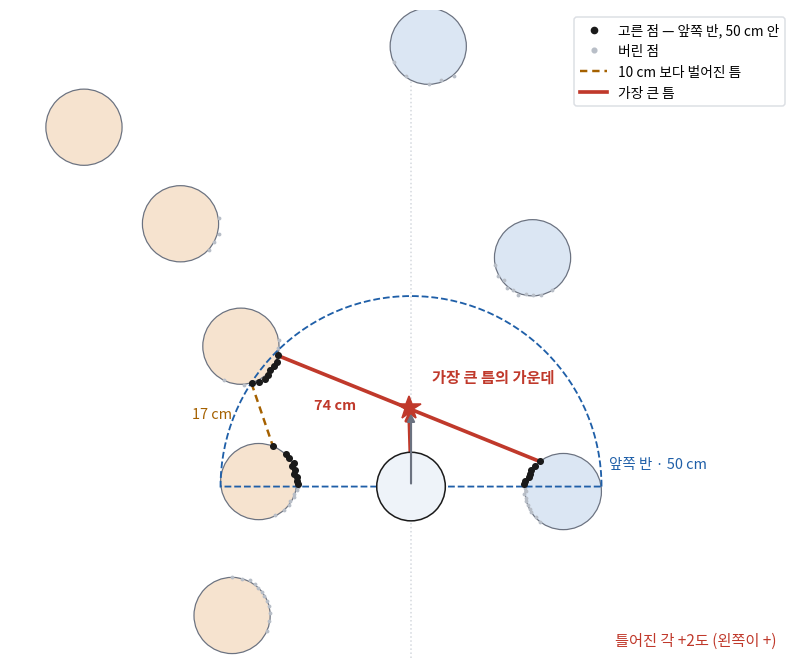
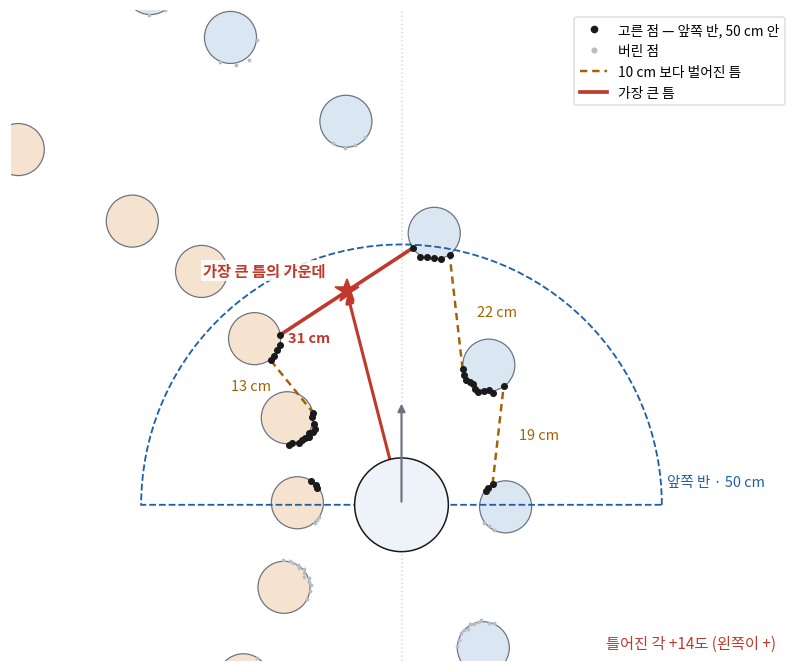
로봇공학 26회 예시를 기말 프로젝트 트랙(S자 · 간격 20cm · 폭 40cm)에 맞춤
dev 에서 배포했다.

  M	robotics/assets/img/26_gap.png
  M	robotics/robotics_26.html

diff --git a/robotics/robotics_26.html b/robotics/robotics_26.html
@@ -87,14 +87,14 @@
        →  가장 큰 틈  이웃한 두 점 사이가 가장 크게 벌어진 곳의 가운데      (③절)
        →  /cmd_vel    그 가운데 쪽으로 돈다                               (④절)</code></pre>
   <p>
-    아래 그림이 그 과정이다. 콘(지름 20cm)을 40cm 간격으로 세우고 두 줄 사이를 80cm로 둔 굽은 트랙에서, 로봇이 왼쪽으로 굽는 길에 들어선 자리다.
+    아래 그림이 그 과정이다. 기말 프로젝트의 트랙처럼 콘을 20cm 간격으로 세우고 두 줄 사이를 40cm로 둔 S자 트랙에서, 로봇이 첫 번째 왼쪽 굽이에 들어선 자리다. 콘의 지름은 10cm로 잡았다.
     콘의 자리를 정해 두고 그 자리의 라이다가 볼 점을 계산해서 그렸다. <strong>위쪽이 로봇의 앞(x)</strong>, 왼쪽이 로봇의 왼쪽(y)이다. 주황 콘이 왼쪽 줄, 파란 콘이 오른쪽 줄이다.
   </p>
   <figure>
     <img src="assets/img/26_gap.png" width="620"
-         alt="로봇 둘레에 주황 콘(왼쪽 줄)과 파란 콘(오른쪽 줄)이 있고, 로봇 앞쪽에 반지름 50cm의 파란 점선 반원이 있다. 반원 안의 점만 검은 점으로 남았다. 왼쪽 줄 두 콘 사이에 17cm짜리 주황 점선 틈이, 오른쪽 콘과 왼쪽 앞 콘 사이에 74cm짜리 빨간 실선 틈이 있고, 빨간 틈의 가운데에 별이 있으며 로봇에서 별로 화살표가 나 있다. 틀어진 각 +2도">
-    <figcaption>점 116개 가운데 앞쪽 반·50cm 안의 25개만 남겼다(검은 점). 이웃한 두 점이 10cm보다 벌어진 틈은 둘 — 왼쪽 줄 콘 사이의 17cm와 두 줄 사이의 74cm다.
-      더 큰 74cm 틈의 가운데(★)가 목표점이고, 로봇은 그쪽으로 2도쯤 돌면 된다.</figcaption>
+         alt="왼쪽으로 굽는 길에서 로봇 둘레에 주황 콘(왼쪽 줄)과 파란 콘(오른쪽 줄)이 있고, 로봇 앞쪽에 반지름 50cm의 파란 점선 반원이 있다. 반원 안의 점만 검은 점으로 남았다. 같은 줄 콘 사이에 13·19·22cm짜리 주황 점선 틈이, 왼쪽 콘과 오른쪽 줄의 앞 콘 사이에 31cm짜리 빨간 실선 틈이 있고, 빨간 틈의 가운데에 별이 있으며 로봇에서 별로 화살표가 나 있다. 틀어진 각 +14도">
+    <figcaption>점 109개 가운데 앞쪽 반·50cm 안의 40개만 남겼다(검은 점). 이웃한 두 점이 10cm보다 벌어진 틈은 넷 — 같은 줄 콘 사이의 13·19·22cm와 두 줄 사이의 31cm다.
+      가장 큰 31cm 틈의 가운데(★)가 목표점이고, 로봇은 그쪽으로 14도쯤 돌면 된다.</figcaption>
   </figure>
 
 
@@ -110,7 +110,7 @@
     <strong>앞쪽 반</strong>은 로봇의 왼쪽 옆(+90도)부터 정면을 거쳐 오른쪽 옆(−90도)까지다. 25회의 좌표로는 <strong>x &gt; 0</strong>인 점이다. 이미 지나온 콘은 뒤에 있으므로 여기서 빠진다.
   </p>
   <p>
-    <strong>50cm</strong>는 「지금 바로 옆과 앞에 있는 콘만 본다」는 뜻이다. 트랙 폭이 80cm면 길 가운데의 로봇에서 양옆 콘까지가 40cm쯤이므로, 50cm 안에는 <strong>양쪽 줄의 가까운 콘</strong>이 들어온다.
+    <strong>50cm</strong>는 「지금 바로 옆과 앞에 있는 콘만 본다」는 뜻이다. 길 폭이 40cm면 길 가운데의 로봇에서 양옆 콘까지가 20cm쯤이므로, 50cm 안에는 <strong>양쪽 줄의 가까운 콘</strong>이 두세 개씩 들어온다.
     멀리까지 보면 굽은 길 너머의 콘이나 트랙 밖의 가구가 끼어든다. 가까운 것만 보면 그런 일이 줄어든다.
   </p>
   <p>
@@ -175,26 +175,30 @@
   <div class="tablewrap">
   <table>
     <tr><th>틈이 보는 것</th><th>양 끝의 두 점</th><th>그림에서</th></tr>
-    <tr><td><strong>같은 줄의 콘 사이</strong></td><td>한 줄에서 이웃한 두 콘</td><td>왼쪽 줄 두 콘 사이의 17cm</td></tr>
-    <tr><td><strong>앞으로 열린 길</strong></td><td>오른쪽 줄의 콘과 왼쪽 줄의 콘</td><td>두 줄 사이의 74cm</td></tr>
+    <tr><td><strong>같은 줄의 콘 사이</strong></td><td>한 줄에서 이웃한 두 콘</td><td>13cm · 19cm · 22cm</td></tr>
+    <tr><td><strong>앞으로 열린 길</strong></td><td>오른쪽 줄의 콘과 왼쪽 줄의 콘</td><td>왼쪽 콘과 오른쪽 줄의 앞 콘 사이의 31cm</td></tr>
   </table>
   </div>
 
   <h3 id="gap-widest">3-2 가장 큰 틈이 길인 까닭</h3>
   <p>
-    두 틈 가운데 어느 것이 길인지 무엇으로 가를까? <strong>폭</strong>으로 가른다. 콘이 일정한 간격으로 서 있다면, 같은 줄의 콘 사이 틈은 <strong>콘 간격에서 콘의 지름을 뺀 것</strong>보다 넓어지기 어렵다.
-    그림의 트랙이면 40 − 20 = 20cm쯤이다. 로봇이 지나갈 길은 그보다 넓어야 하므로, 두 줄 사이의 틈은 그보다 넓다.
+    틈이 여럿일 때 어느 것이 길인지 무엇으로 가를까? <strong>폭</strong>으로 가른다. 콘이 일정한 간격으로 서 있다면, 같은 줄의 콘 사이 틈은 <strong>콘 간격에서 콘의 지름을 뺀 것</strong>보다 넓어지기 어렵다.
+    그림의 트랙이면 20 − 10 = 10cm쯤이다. 두 줄 사이의 틈은 길 폭에서 콘의 지름을 뺀 30cm쯤이므로 훨씬 넓다.
   </p>
-<pre><code>같은 줄의 콘 사이     콘 간격 0.40 m − 콘 지름 0.20 m  ≈ 0.20 m   (그림에서 0.17 m)
-두 줄 사이            트랙 폭 0.80 m 쯤                            (그림에서 0.74 m)
+<pre><code>같은 줄의 콘 사이     콘 간격 0.20 m − 콘 지름 0.10 m  ≈ 0.10 m   (그림에서 0.13 · 0.19 · 0.22 m)
+두 줄 사이            길 폭 0.40 m − 콘 지름 0.10 m    ≈ 0.30 m   (그림에서 0.31 m)
 → 가장 큰 틈 = 두 줄 사이 = 갈 길</code></pre>
   <p>
-    그래서 규칙은 한 줄이다 — <strong>가장 큰 틈의 가운데로 간다.</strong> 왼쪽 줄인지 오른쪽 줄인지, 콘이 몇 개인지 따질 필요가 없다.
-    틈의 양 끝 두 점의 평균이 틈의 가운데다. 그림에서는 오른쪽 콘의 점 (0.066, −0.337)과 왼쪽 콘의 점 (0.344, 0.350)의 가운데인 <strong>(0.205, 0.006)</strong>이다.
+    그림에서 같은 줄의 틈이 계산보다 넓은 것은 두 가지 때문이다. 하나는 <strong>굽은 길의 바깥 줄</strong>(여기서는 오른쪽 줄)이다. 길 가운데를 따라 20cm마다 콘을 세웠으므로 반지름이 큰 바깥 줄은 콘 사이가 벌어졌다(19 · 22cm).
+    다른 하나는 라이다가 콘의 <strong>앞쪽 면</strong>만 본다는 것이다. 틈의 양 끝 두 점이 두 콘이 서로 가장 가까운 자리가 아니어서, 잰 틈이 실제 사이보다 조금 넓어진다.
+  </p>
+  <p>
+    어느 쪽이든 두 줄 사이가 더 넓다. 그래서 규칙은 한 줄이다 — <strong>가장 큰 틈의 가운데로 간다.</strong> 왼쪽 줄인지 오른쪽 줄인지, 콘이 몇 개인지 따질 필요가 없다.
+    틈의 양 끝 두 점의 평균이 틈의 가운데다. 그림에서는 오른쪽 줄 앞 콘의 점 (0.494, −0.022)와 왼쪽 콘의 점 (0.326, 0.233)의 가운데인 <strong>(0.410, 0.106)</strong>이다.
   </p>
   <div class="interp">
-    <strong>해석:</strong> 이 규칙이 통하려면 <strong>같은 줄의 콘 사이 틈 &lt; 두 줄 사이 틈</strong>이어야 한다. 콘 간격이 트랙 폭과 비슷할 만큼 벌어져 있으면 콘 사이의 틈이 길보다 커 보일 수 있다.
-    트랙을 세울 때 이 조건을 같이 생각해 두면 좋다.
+    <strong>해석:</strong> 이 규칙이 통하려면 <strong>같은 줄의 콘 사이 틈 &lt; 두 줄 사이 틈</strong>이어야 한다. 그림의 굽은 길에서는 22cm와 31cm로 차이가 크지 않았다. 바깥 줄의 콘 사이가 더 벌어지면 콘 사이의 틈이 길보다 커 보일 수 있다.
+    연습 트랙을 세울 때 굽은 자리의 바깥 줄 간격을 일부러 넓혀 보면 이 경계를 직접 볼 수 있다.
   </div>
 
   <h3 id="gap-none">3-3 틈이 없을 때</h3>
@@ -254,9 +258,9 @@
     많이 틀어졌으면 많이 돌리고, 조금 틀어졌으면 조금 돌린다. 이렇게 <strong>벗어난 양(오차)에 비례해서 고치는 것</strong>을 <strong>비례 제어(proportional control, P 제어)</strong>라고 하고, 곱하는 숫자 <code>kp</code>를 <strong>비례 이득(gain)</strong>이라고 한다.
     부호는 ROS 좌표 규약이 맞춰 준다 — 목표점이 왼쪽이면 y가 +, 틀어진 각이 +, <code>angular.z</code>가 +, 로봇은 왼쪽으로 돈다.
   </p>
-<pre><code>목표점 = (0.205, 0.006)          (그림의 ★)
-틀어진 각 = atan2(0.006, 0.205) = 0.029 rad = 1.7도
-kp = 1.0 이면  회전 속도 = 1.0 × 0.029 = 0.03 rad/s     — 로봇이 이미 길 쪽을 보고 있어서 거의 곧장 간다</code></pre>
+<pre><code>목표점 = (0.410, 0.106)          (그림의 ★)
+틀어진 각 = atan2(0.106, 0.410) = 0.252 rad = 14.4도
+kp = 1.0 이면  회전 속도 = 1.0 × 0.252 = 0.25 rad/s     — 왼쪽으로 돈다</code></pre>
   <p>
     목표점은 언제나 앞쪽 반에 있으므로 틀어진 각은 −90도 ~ +90도(−1.57 ~ +1.57 rad)를 넘지 않는다. <code>kp</code>가 1.0이면 회전 속도도 ±1.57 rad/s 안이다.
     <code>kp</code>를 크게 올릴 때는 이 곱이 로봇이 낼 수 있는 회전 속도를 넘지 않는지 같이 보아 둔다.
@@ -419,26 +423,26 @@ int main(int argc, char ** argv)
   <h2 id="tune">⑤ 실험하며 맞출 것 <span class="badge b-red">🔴 사람이 맞춘다</span></h2>
 
   <p>
-    이 코드가 여러분의 트랙에서 바로 잘 달릴까? 그렇지 않을 가능성이 크다. 콘의 크기, 간격, 트랙 폭, 바닥, 로봇의 속도가 다 다르기 때문이다. 손댈 자리는 숫자 네 개와 규칙이다.
+    이 코드가 여러분의 트랙에서 바로 잘 달릴까? 그렇지 않을 가능성이 크다. 콘의 크기, 간격, 길 폭, 바닥, 로봇의 속도가 다 다르기 때문이다. 손댈 자리는 숫자 네 개와 규칙이다.
   </p>
   <div class="tablewrap">
   <table>
     <tr><th>숫자</th><th>처음 값</th><th>무엇에 맞추나</th><th>틀렸을 때 보이는 것</th></tr>
-    <tr><td><code>look_distance_</code></td><td>0.50 m</td><td>트랙 폭과 콘 간격 (아래)</td><td>짧으면 콘이 안 보이는 순간이 생겨 곧장 가 버리고, 길면 굽은 길 너머의 콘이나 트랙 밖 물체가 끼어든다</td></tr>
-    <tr><td><code>min_gap_</code></td><td>0.10 m</td><td>한 콘 위의 점 간격보다 넓게, 같은 줄의 콘 사이 틈보다 좁게</td><td>너무 작으면 콘 하나에 틈이 생기고, 너무 크면 틈을 못 찾는다</td></tr>
-    <tr><td><code>speed_</code></td><td>0.05 m/s</td><td>스캔 한 장(0.1초) 사이에 가는 거리</td><td>빠르면 굽은 길에서 돌기 전에 콘에 닿는다</td></tr>
+    <tr><td><code>look_distance_</code></td><td>0.50 m</td><td>길 폭과 콘 간격 (아래)</td><td>짧으면 콘이 안 보이는 순간이 생겨 곧장 가 버리고, 길면 굽은 길 너머의 콘이나 트랙 밖 물체가 끼어든다</td></tr>
+    <tr><td><code>min_gap_</code></td><td>0.10 m</td><td>한 콘 위의 점 간격(1.5cm)보다 넓게</td><td>너무 작으면 콘 하나에 틈이 생기고, 30cm 가까이 크면 길도 틈으로 못 찾는다. 같은 줄의 콘 사이(10cm 안팎)가 틈으로 잡히든 안 잡히든 가장 큰 틈은 대체로 길이다</td></tr>
+    <tr><td><code>speed_</code></td><td>0.05 m/s</td><td>스캔 한 장(0.1초) 사이에 가는 거리</td><td>빠르면 굽은 길에서 돌기 전에 콘에 닿는다. 길 폭 40cm에서 로봇 폭이 18cm쯤이라 한쪽 여유는 6cm쯤이다(콘 지름 10cm일 때)</td></tr>
     <tr><td><code>kp_</code></td><td>1.0</td><td>로봇과 트랙의 굽은 정도</td><td>작으면 굽은 길을 못 따라가고, 크면 좌우로 흔들릴 수 있다</td></tr>
   </table>
   </div>
   <p>
     <code>look_distance_</code>에는 지켜야 할 조건이 하나 있다. 로봇이 콘 한 쌍을 막 지나 그 콘이 옆(앞쪽 반의 끝)으로 빠지는 순간, <strong>다음 쌍이 벌써 보이고 있어야 한다.</strong>
-    그 순간 다음 콘까지의 거리는 옆으로 트랙 폭의 절반, 앞으로 콘 간격만큼이다.
+    그 순간 다음 콘까지의 거리는 옆으로 길 폭의 절반, 앞으로 콘 간격만큼이다.
   </p>
-<pre><code>다음 콘의 겉면까지  ≈ √( (트랙 폭 ÷ 2)² + 콘 간격² ) − 콘 반지름
-그림의 트랙           √( 0.40² + 0.40² ) − 0.10 = 0.566 − 0.10 = 0.47 m   → 0.50 m 안이다
-콘 지름이 10 cm 이면  0.566 − 0.05 = 0.52 m                            → 0.50 m 밖. 잠깐씩 아무것도 안 보인다</code></pre>
+<pre><code>다음 콘의 겉면까지  ≈ √( (길 폭 ÷ 2)² + 콘 간격² ) − 콘 반지름
+그림의 트랙               √( 0.20² + 0.20² ) − 0.05 = 0.283 − 0.05 = 0.23 m   → 0.50 m 면 넉넉하다
+콘 간격이 0.40 m 로 벌어지면  √( 0.20² + 0.40² ) − 0.05 = 0.447 − 0.05 = 0.40 m   → 아직 안이다</code></pre>
   <p>
-    아무것도 안 보이는 순간에는 3-3대로 곧장 간다. 곧은 길이면 괜찮지만 굽은 길에서는 그사이에 길을 벗어날 수 있다. 콘이 작거나 간격이 넓은 트랙이면 <code>look_distance_</code>를 이 값보다 조금 넉넉히 잡아 본다.
+    아무것도 안 보이는 순간에는 3-3대로 곧장 간다. 곧은 길이면 괜찮지만 굽은 길에서는 그사이에 길을 벗어날 수 있다. 거꾸로 너무 멀리 보면 S자의 다음 굽이에 선 콘까지 들어온다. 50cm에서 줄이거나 늘려 보며 로그의 점 개수와 주행이 어떻게 바뀌는지 본다.
   </p>
   <p>
     규칙에도 손댈 곳이 있다. 예를 들어 로봇이 한쪽으로 쏠려 <strong>한쪽 줄만 보이면</strong> 길을 놓친다. 그 줄의 콘이 하나만 보이면 틈이 없어 굽은 길에서도 곧장 가고, 둘이 보이면 콘 사이의 틈을 길로 알고 그쪽으로 돈다. 이것을 어떻게 막을까? 트랙 끝에서는 어떻게 세울까?
@@ -470,11 +474,11 @@ $ ros2 run cone_drive cone_drive</code></pre>
       </div>
     </li>
     <li>아무것도 두지 않고 로그를 본다. 「틈이 없다」와 함께 직진 속도만 나가는가?</li>
-    <li>로봇 앞 50cm 안에 콘(종이컵이나 페트병도 된다)을 좌우에 하나씩 둔다. 둘을 같이 왼쪽으로 옮기면 틀어진 각이 +로 커지고 <strong>오른쪽 바퀴가 더 빨리</strong> 도는가? 오른쪽으로도 같은 식으로 본다.</li>
-    <li>한쪽에 콘 둘을 20cm쯤 떼어 놓고 다른 쪽 콘은 치워 본다. 로봇이 어느 틈을 고르는가? ⑤절에서 말한 「한쪽 줄만 보일 때」다.</li>
+    <li>로봇 앞 30cm쯤, 좌우로 20cm씩 떨어진 자리에 콘(종이컵도 된다)을 하나씩 둔다. 둘을 같이 왼쪽으로 옮기면 틀어진 각이 +로 커지고 <strong>오른쪽 바퀴가 더 빨리</strong> 도는가? 오른쪽으로도 같은 식으로 본다.</li>
+    <li>한쪽에 콘 둘을 20cm 간격으로 놓고 다른 쪽 콘은 치워 본다. 로봇이 어느 틈을 고르는가? ⑤절에서 말한 「한쪽 줄만 보일 때」다.</li>
     <li>끝나면 노드를 끄고 터미널 3에서 정지 명령을 보낸다.</li>
   </ol>
-  <!-- TODO: 미검증 — 실물 로봇과 실물 콘으로 돌려 보지 않았다. 계산한 스캔(시뮬레이터)에서 콘 간격 40cm · 트랙 폭 80cm 의 곡선·직선 트랙을 콘에 닿지 않고 끝까지 간 것만 확인했다 (examples/l26_cones/out/) -->
+  <!-- TODO: 미검증 — 실물 로봇과 실물 콘으로 돌려 보지 않았다. 계산한 스캔(시뮬레이터)에서 콘 간격 20cm · 길 폭 40cm 의 S자 트랙을 끝까지 간 것만 확인했다(콘 지름 6cm 면 닿은 콘 0, 10cm 면 출발 자세에 따라 0~3개 — 스치는 정도) (examples/l26_cones/out/) -->
 
 
   <!-- ══════════ 한 장 요약 ══════════ -->
@@ -524,7 +528,7 @@ $ ros2 run cone_drive cone_drive</code></pre>
     <li><input type="checkbox" id="c1"><label for="c1">앞쪽 반·50cm 안의 점만 고르는 까닭과, 그 점들을 각도 순서로 다시 세워야 하는 까닭을 말할 수 있다</label></li>
     <li><input type="checkbox" id="c2"><label for="c2">틈이 보는 것 두 가지와, 그 가운데 가장 큰 틈이 길인 까닭(같은 줄의 콘 사이 틈 &lt; 두 줄 사이 틈)을 설명할 수 있다</label></li>
     <li><input type="checkbox" id="c3"><label for="c3">틈의 양 끝 두 점이 주어지면 목표점과 틀어진 각, 회전 속도를 손으로 계산할 수 있다</label></li>
-    <li><input type="checkbox" id="c4"><label for="c4">트랙 폭과 콘 간격에서 <code>look_distance_</code>가 적어도 얼마여야 하는지 어림할 수 있다</label></li>
+    <li><input type="checkbox" id="c4"><label for="c4">길 폭과 콘 간격에서 <code>look_distance_</code>가 적어도 얼마여야 하는지 어림할 수 있다</label></li>
     <li><input type="checkbox" id="c5"><label for="c5">목표점이 왼쪽에 있을 때 <code>angular.z</code>의 부호와 어느 바퀴가 더 빨리 도는지 띄운 바퀴로 확인했다</label></li>
     <li><input type="checkbox" id="c6"><label for="c6">오늘의 코드에 타임아웃 정지가 없고 콘이 안 보여도 곧장 간다는 것, 바닥에 내려놓기 전에 무엇을 붙여야 하는지 안다</label></li>
   </ul>
